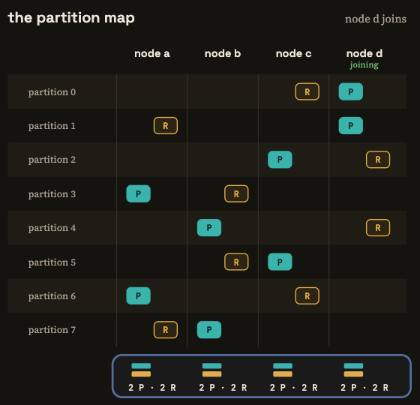
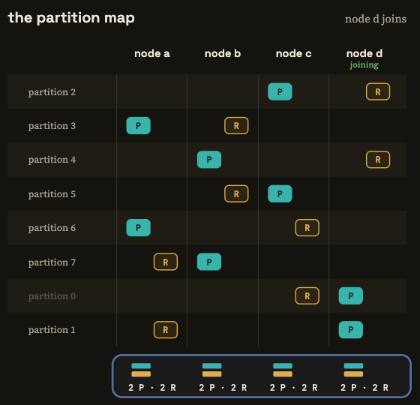
blance 01-planning: show the sort that starts each state's pass
blance sorts the partitions at the start of each state's pass
(partitionSorter: on a node leaving first, then not yet on a node
joining, then the rest), and the explainer only said so in words. Now:

- The planner port's trace records each pass's order and each
  partition's group; each pass gets two frames, its groups shown under
  the rows' names, then the rows sliding into order; the plan done,
  the rows go back in name order.
- Steps: the gist up front (sort, then one greedy pass down the sorted
  list); the first fill's sort, which moves nothing; the join's replica
  sort, which moves partitions 0 and 1 to the bottom; the leave's,
  which moves partitions 4 and 7 to the top. Facts check each order.
- The summary's pseudo-code and takeaway start with the sort.

diff --git a/topics/blance/01-planning/scenarios.js b/topics/blance/01-planning/scenarios.js
@@ -61,22 +61,38 @@ function seqOf(t) {
 // partition, prev to result), iterations, decisions}.
 //
 // A frame: {key, i (its place in the scenario), board, decision, k
-// (decisions made), stage (its place in the decision's seq)}; and after
-// each state's last decision, "fresh.primaries", the pass done (no
-// decision in hand, nothing left over from the last one). Each
+// (decisions made), stage (its place in the decision's seq), order (the
+// board's rows, top to bottom), pass (while a state's pass is on: its
+// state, each partition's group in its sort, and what the groups
+// mean)}; and after each state's last decision, "fresh.primaries", the
+// pass done (no decision in hand, nothing left over from the last one).
+// Each pass begins by sorting the partitions, in two frames:
+// "fresh.replicas~keys", each row's group shown, and
+// "fresh.replicas~sorted", the rows in the pass's order. Once the plan
+// is made, "fresh.unsorted": the rows back in name order. Each
 // decision has a frame per stage, "fresh.2~row", "fresh.2~a.count", on
 // the board as it was before it, and then its pick, "fresh.2", with it
 // made. A scenario that removes nodes ends with "remove.after": the
 // same board, with the nodes removed out of the cluster.
 function scenario(id, title, { prev, nodesAll, remove = [], add = [], opts = {}, groups = false }) {
   const r = planNextMap(mapOf(prev), mapOf(prev), nodesAll, remove, add, MODEL, opts, { trace: true });
-  const frames = [{ key: `${id}.prev`, board: prev, decision: null, k: -1, i: 0 }];
-  const push = (f) => frames.push({ ...f, i: frames.length });
+  let order = [...PARTITIONS], pass = null;
+  const frames = [{ key: `${id}.prev`, board: prev, decision: null, k: -1, i: 0, order, pass }];
+  const push = (f) => frames.push({ order, pass, ...f, i: frames.length });
   let board = without(prev, remove);
   push({ key: `${id}.0`, board, decision: null, k: 0 });
+  // what the sort's groups mean, here
+  const labels = groupLabels(nodesAll, add, remove);
   let k = 0;
   for (const t of r.passes[0].trace) {
-    if (t.begin) continue;
+    if (t.begin) {
+      // the pass's sort: each row's group, then the rows in its order
+      pass = { state: t.state, groups: t.groups, labels };
+      push({ key: `${id}.${PLURAL[t.state]}~keys`, board, decision: null, k, sort: 'keys' });
+      order = t.order;
+      push({ key: `${id}.${PLURAL[t.state]}~sorted`, board, decision: null, k, sort: 'sorted' });
+      continue;
+    }
     const seq = seqOf(t);
     const decision = { ...t, k: k + 1, before: board, seq };
     seq.forEach((x, si) => {
@@ -88,10 +104,16 @@ function scenario(id, title, { prev, nodesAll, remove = [], add = [], opts = {},
     push({ key: `${id}.${k}`, board, decision, k, stage: seq.length - 1 });
     // after a state's last decision, the pass done: "fresh.primaries"
     const next = r.passes[0].trace.slice(r.passes[0].trace.indexOf(t) + 1).find((x) => !x.begin);
-    if (!next || next.state !== t.state) push({ key: `${id}.${PLURAL[t.state]}`, board, decision: null, k, passDone: t.state });
+    if (!next || next.state !== t.state) {
+      pass = null;
+      push({ key: `${id}.${PLURAL[t.state]}`, board, decision: null, k, passDone: t.state });
+    }
   }
   const result = boardOf(r.nextMap);
   if (JSON.stringify(board) !== JSON.stringify(result)) throw new Error(`${id}: replaying the trace doesn't give the plan`);
+  // (the plan made: its rows back in name order, as the map is keyed)
+  order = [...PARTITIONS];
+  push({ key: `${id}.unsorted`, board, decision: null, k });
   push({ key: `${id}.end`, board: result, decision: null, k: k + 1, done: true });
   // (and once the rebalance is over, the nodes removed are gone: "remove.after")
   if (remove.length) push({ key: `${id}.after`, board: result, decision: null, k: k + 1, done: true, departed: true });
@@ -99,6 +121,19 @@ function scenario(id, title, { prev, nodesAll, remove = [], add = [], opts = {},
   return {
     id, title, nodes: nodesAll, joining: add, leaving: remove, groups,
     prev, result, frames, moves, iterations: r.iterations, decisions: k, opts,
+  };
+}
+
+// What a pass's sort groups mean (partitionSorter.Score): 0, a partition
+// on a node leaving, in that state; 1, one on no node joining yet; 2,
+// the rest. (With no node joining, blance puts every partition but the
+// leaving ones in group 1.)
+function groupLabels(nodesAll, add, remove) {
+  const all = add.length === nodesAll.length, joining = add.length === 1 ? `node ${add[0]}` : `nodes ${add.join(', ')}`;
+  return {
+    0: `on node ${remove.join(', ')}, leaving`,
+    1: !add.length ? 'the rest' : all ? 'on no node yet' : `not on ${joining} yet`,
+    2: !add.length ? 'the rest' : all ? 'on a node already' : `on ${joining} already`,
   };
 }
 

diff --git a/topics/blance/01-planning/diagram.js b/topics/blance/01-planning/diagram.js
@@ -14,14 +14,17 @@
 
 import { svgEl as el } from '../../../engine/js/ui/util/dom.js';
 import { lerp, clamp01, easeQuad } from '../../../engine/js/ui/util/anim.js';
-import { NODES, tally } from './scenarios.js';
-import { CANVAS, BOARD, STRIP, ANCHORS, colX, colX0, setSlots, rowY, chipX, HEAD_Y, TALLY_Y } from './layout.js';
+import { NODES, PARTITIONS, tally } from './scenarios.js';
+import { CANVAS, BOARD, STRIP, ANCHORS, colX, colX0, setSlots, setRows, rowY, chipX, HEAD_Y, TALLY_Y } from './layout.js';
 import { op, pickOf, boardW, slotsOf } from './diagram-shared.js';
 import { BoardPart } from './diagram-board.js';
 import { StripPart } from './diagram-strip.js';
 import { MovesPart } from './diagram-moves.js';
 import { ArrowsPart } from './diagram-arrows.js';
 export { FLY, flight, grown, through } from './diagram-shared.js';
+
+// A frame's rows: each partition's place, from the top.
+const rowsOf = (f) => Object.fromEntries((f.order || PARTITIONS).map((p, i) => [p, i]));
 
 export class Diagram {
   constructor(svg) {
@@ -92,6 +95,10 @@ export class Diagram {
       const t = `translate(${(colX(n) - colX0(n)).toFixed(1)} 0)`;
       for (const e of [this.cols[n].g, ...Object.values(this.cols[n].tags), this.strip.cols[n].g, this.movesArea.cols[n].g]) e.setAttribute('transform', t);
     }
+    // the rows' places, partway (a pass's sort moves them; so does the
+    // plan's end, back to name order)
+    const ra = rowsOf(FA), rb = rowsOf(FB);
+    setRows(Object.fromEntries(PARTITIONS.map((p) => [p, lerp(ra[p], rb[p], easeQuad(q))])));
     const sameD = FA.decision && FA.decision === FB.decision;
     const stageOf = (f) => f.stage ?? (f.decision ? pickOf(f.decision) : 0);
     this._drawBoard(FA, FB, q, sameD ? lerp(stageOf(FA), stageOf(FB), q) : null);
@@ -134,6 +141,8 @@ export class Diagram {
       const p = d && (this.stripTops || {})[id === 'winner' ? d.chosen[0] : id.slice(4)];
       return p ? { p, visible: strip } : { p: [0, 0], visible: false };
     }
+    // (a row: where it is now)
+    if (id.startsWith('row.')) return { p: [BOARD.labelX - 8, rowY(id.slice(4))], visible: true };
     if (id === 'deciding') return d ? { p: [BOARD.x0 + 4, rowY(d.partition)], visible: true } : { p: [0, 0], visible: false };
     if (id === 'chosen') return d ? { p: [chipX(d.chosen[0], d.state) - 20, rowY(d.partition)], visible: true } : { p: [0, 0], visible: false };
     const a = ANCHORS[id];

diff --git a/topics/blance/01-planning/diagram-board.js b/topics/blance/01-planning/diagram-board.js
@@ -24,11 +24,18 @@ export class BoardPart {
       txt(this.groupG, (xa + xb) / 2, GROUP_Y - 6, `server group ${grp}`, 'bgroup-label', 'middle');
     }
     // rows (as wide as the scenario's nodes)
+    // (the stripes stay put; the labels move with their rows, and under
+    // each, while a pass is on, its group in the pass's sort)
     this.rowRects = [];
+    this.rowLabels = {};
     for (const p of PARTITIONS) {
       const y = rowY(p);
       if (PARTITIONS.indexOf(p) % 2 === 0) this.rowRects.push(el('rect', { x: BOARD.x0, y: y - BOARD.rowH / 2, width: BOARD.x1 - BOARD.x0 + 10, height: BOARD.rowH, class: 'brow' }, g));
-      txt(g, BOARD.labelX, y + 5, `partition ${p}`, 'brow-label');
+      const lg = el('g', {}, g);
+      txt(lg, BOARD.labelX, 5, `partition ${p}`, 'brow-label');
+      const tag = txt(lg, BOARD.labelX, 19, '', 'bsort-tag');
+      op(tag, 0);
+      this.rowLabels[p] = { g: lg, tag };
     }
     // the board, apart from the area under it
     this.sep = el('line', { x1: BOARD.x0, y1: SEP_Y, x2: BOARD.x1 + 10, y2: SEP_Y, class: 'bsep' }, g);
@@ -132,6 +139,20 @@ export class BoardPart {
       op(c.g, o);
     }
     for (const [key, c] of this.chips) if (!shown.has(key)) op(c.g, 0);
+
+    // the rows' labels, where their rows are now; and while a pass is
+    // on, each one's group in its sort (the row in the pass's order)
+    const pa = FA.pass, pb = FB.pass, pn = q < 0.5 ? pa || pb : pb || pa;
+    for (const p of PARTITIONS) {
+      const r = this.rowLabels[p];
+      r.g.setAttribute('transform', `translate(0 ${rowY(p).toFixed(1)})`);
+      if (pn) {
+        const grp = pn.groups[p];
+        setText(r.tag, pn.labels[grp]);
+        r.tag.setAttribute('class', `bsort-tag bsort-g${grp}`);
+      }
+      op(r.tag, lerp(pa ? 1 : 0, pb ? 1 : 0, q));
+    }
 
     // the partition being decided
     const da = FA.decision, db = FB.decision;

diff --git a/topics/blance/lib/plan.js b/topics/blance/lib/plan.js
@@ -9,9 +9,11 @@
 // unique key (a partition's name, a node's position), so they don't
 // depend on the sort algorithm either.
 //
-// It also records what it did, for the explainer: with `trace`, every
-// decision (which partition, which state, the candidates, their score
-// terms, and who won), in order.
+// It also records what it did, for the explainer: with `trace`, each
+// state's pass (the order it sorted the partitions into, and each
+// partition's group in that sort), and every decision (which
+// partition, which state, the candidates, their score terms, and who
+// won), in order.
 
 export const MAX_ITERATIONS_PER_PLAN = 10;
 
@@ -283,9 +285,11 @@ function planNextMapInner(prevMap, partitionsToAssign, nodesAll, nodesToRemove, 
   }
 
   function assignStateToPartitions(stateName, constraints) {
-    const sorted = sortPartitions([...nextPartitions], {
-      stateName, prevMap, nodesToRemove, nodesToAdd, partitionWeights: opts.partitionWeights,
-    });
+    const sortOpts = { stateName, prevMap, nodesToRemove, nodesToAdd, partitionWeights: opts.partitionWeights };
+    const sorted = sortPartitions([...nextPartitions], sortOpts);
+    // (the pass's order, and each partition's group: 0, on a node
+    // leaving; 1, not yet on a node joining; 2, the rest)
+    if (trace) Object.assign(trace[trace.length - 1], { order: sorted.map((p) => p.name), groups: Object.fromEntries(sorted.map((p) => [p.name, partitionScore(p, sortOpts)[0]])) });
     const nodeToNodeCounts = {};
     for (const partition of sorted) {
       const w = opts.partitionWeights && partition.name in opts.partitionWeights ? opts.partitionWeights[partition.name] : 1;

diff --git a/topics/blance/01-planning/layout.js b/topics/blance/01-planning/layout.js
@@ -29,7 +29,12 @@ const SLOTS = Object.fromEntries(NODES.map((n, i) => [n, i]));
 export const setSlots = (s) => Object.assign(SLOTS, s);
 export const colX0 = (node) => BOARD.col0 + NODES.indexOf(node) * BOARD.colW + BOARD.colW / 2;
 export const colX = (node) => BOARD.col0 + SLOTS[node] * BOARD.colW + BOARD.colW / 2;
-export const rowY = (p) => BOARD.y0 + PARTITIONS.indexOf(p) * BOARD.rowH + BOARD.rowH / 2;
+// Each partition's row, from the top: its place in the order of the
+// frame drawn (each state's pass sorts the rows; the diagram sets them,
+// setRows, and every y follows).
+const ROWS = Object.fromEntries(PARTITIONS.map((p, i) => [p, i]));
+export const setRows = (r) => Object.assign(ROWS, r);
+export const rowY = (p) => BOARD.y0 + ROWS[p] * BOARD.rowH + BOARD.rowH / 2;
 // a cell's chip: primary on the left of the cell, replica on the right
 export const chipX = (node, state) => colX(node) + (state === 'primary' ? -20 : 20);
 export const HEAD_Y = BOARD.y0 - 26; // node names

diff --git a/topics/blance/01-planning/style.css b/topics/blance/01-planning/style.css
@@ -5,6 +5,11 @@
 .diagram .bsub { font: 400 16px var(--font-body); fill: var(--muted); }
 .diagram .brow { fill: var(--faint); opacity: 0.6; }
 .diagram .brow-label { font: 500 14px var(--font-body); fill: var(--muted); }
+/* a row's group in its pass's sort: first, on a node leaving; then,
+   not on a node joining yet; then the rest */
+.diagram .bsort-tag { font: 600 11px var(--font-body); fill: var(--muted); }
+.diagram .bsort-g0 { fill: var(--leave); }
+.diagram .bsort-g1 { fill: var(--join); }
 .diagram .bband { fill: none; stroke: var(--accent); stroke-width: 2; }
 .diagram .bcol-line { stroke: var(--line); }
 .diagram .bnode { font: 600 16px var(--font-display); fill: var(--ink); }

diff --git a/topics/blance/01-planning/story.js b/topics/blance/01-planning/story.js
@@ -42,6 +42,12 @@ function facts() {
     const s = SCENARIOS[f.scenario];
     if (f.sub) continue;
     out[`${key}.counts`] = counts(s, f.board);
+    // a pass's sort: the rows' order, and how many go in each group
+    if (f.sort === 'sorted') {
+      const pass = key.replace('~sorted', '');
+      out[`${pass}.order`] = f.order.join(',');
+      for (const g of ['0', '1', '2']) out[`${pass}.group${g}`] = Object.values(f.pass.groups).filter((x) => x === g).length;
+    }
     if (!f.decision) continue;
     // a decision: its partition, state, winner, and each candidate's score
     out[`${key}.partition`] = f.decision.partition;

diff --git a/topics/blance/01-planning/main.js b/topics/blance/01-planning/main.js
@@ -20,6 +20,9 @@ import { Diagram } from './diagram.js';
 
 // How much a frame plays, getting there: its stage's arrows (at least 1).
 function weightOf(f) {
+  // (a pass's sort: its rows sliding into order take a while)
+  if (f.sort) return f.sort === 'sorted' ? 4 : 2;
+  if (f.key.endsWith('.unsorted')) return 3;
   const d = f.decision;
   if (!d || f.stage === undefined) return 1;
   const x = d.seq[f.stage];
